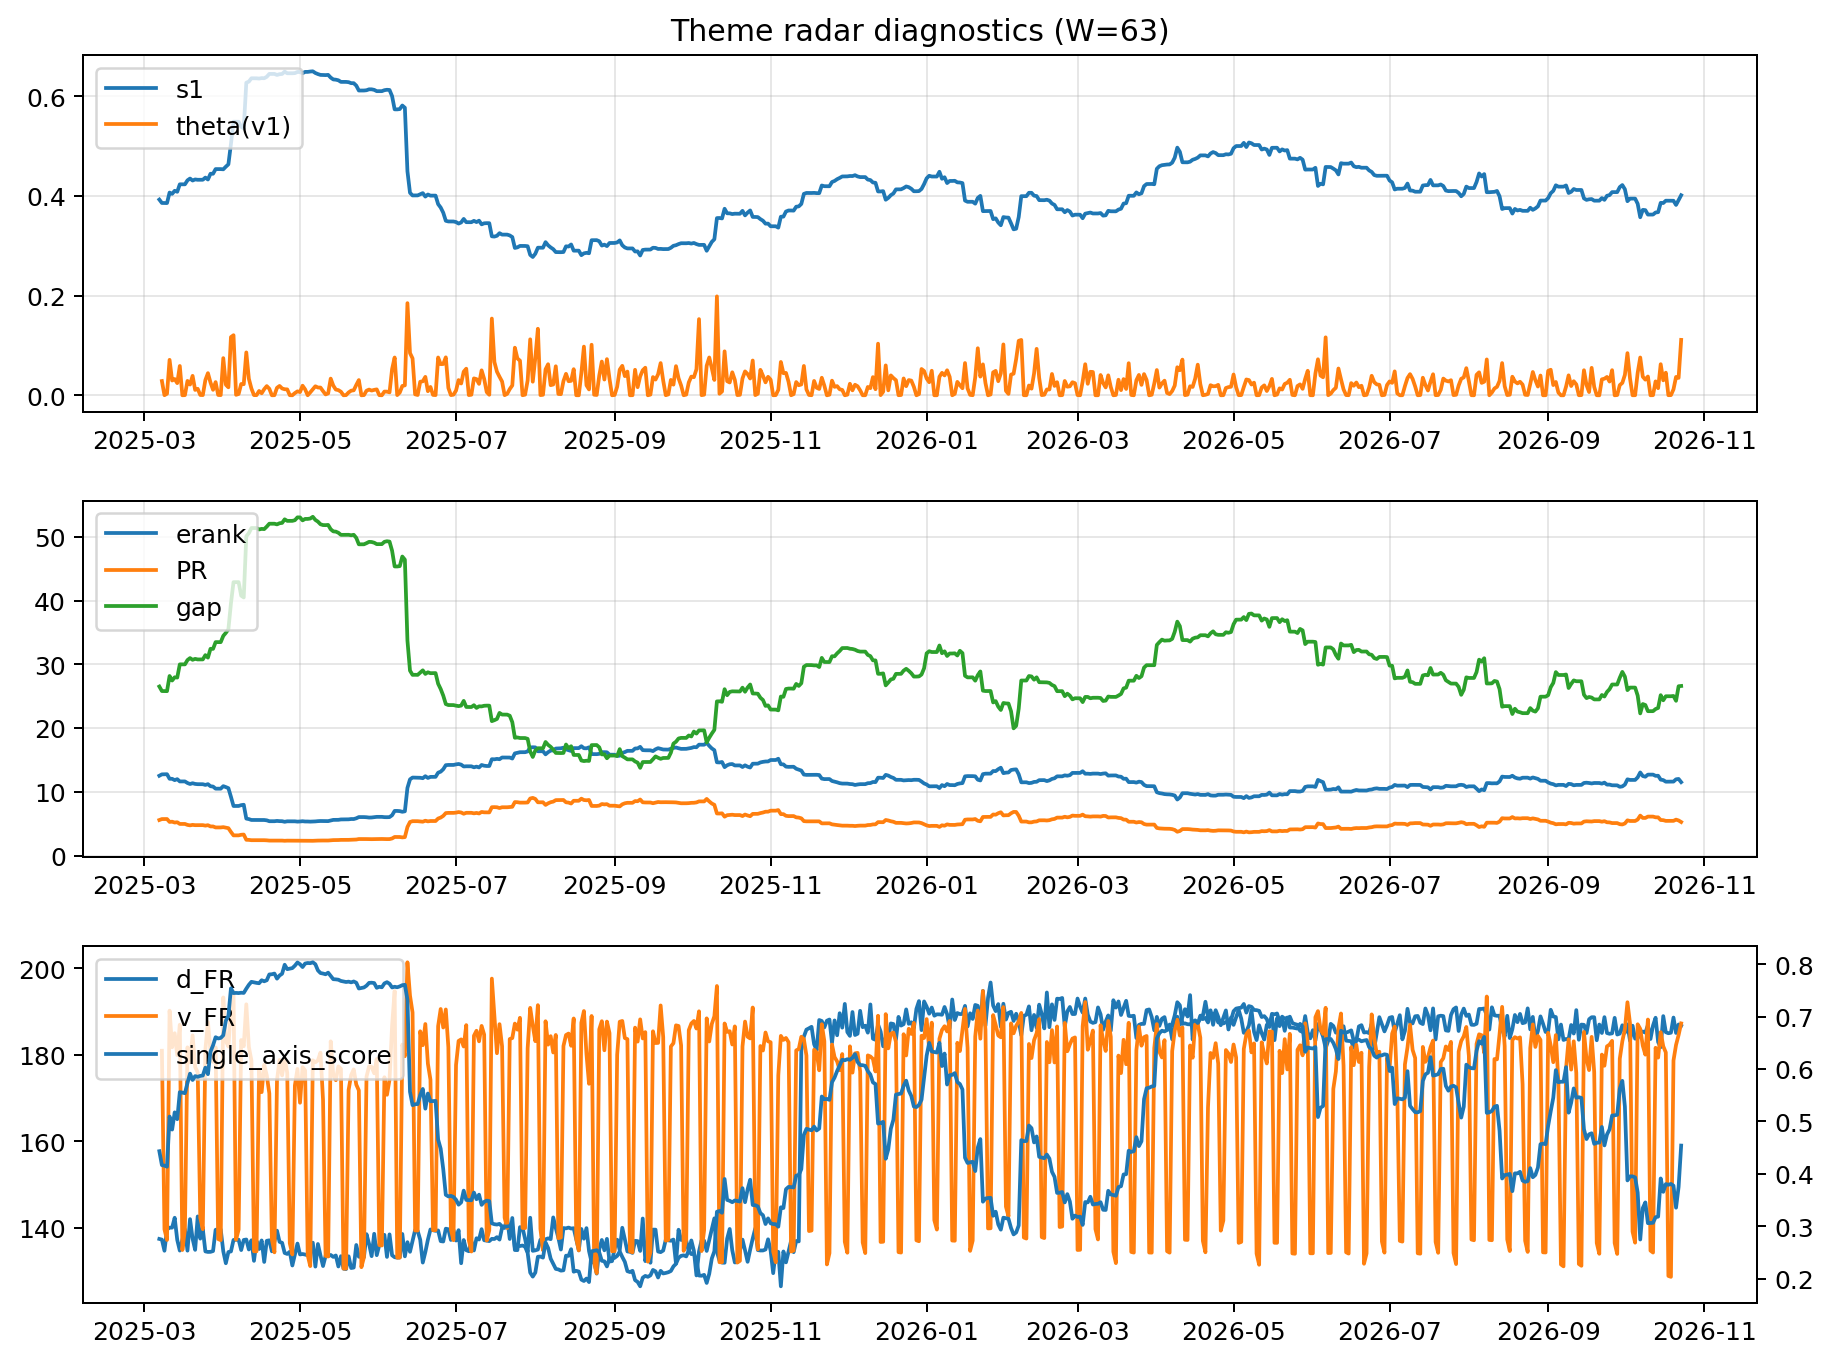
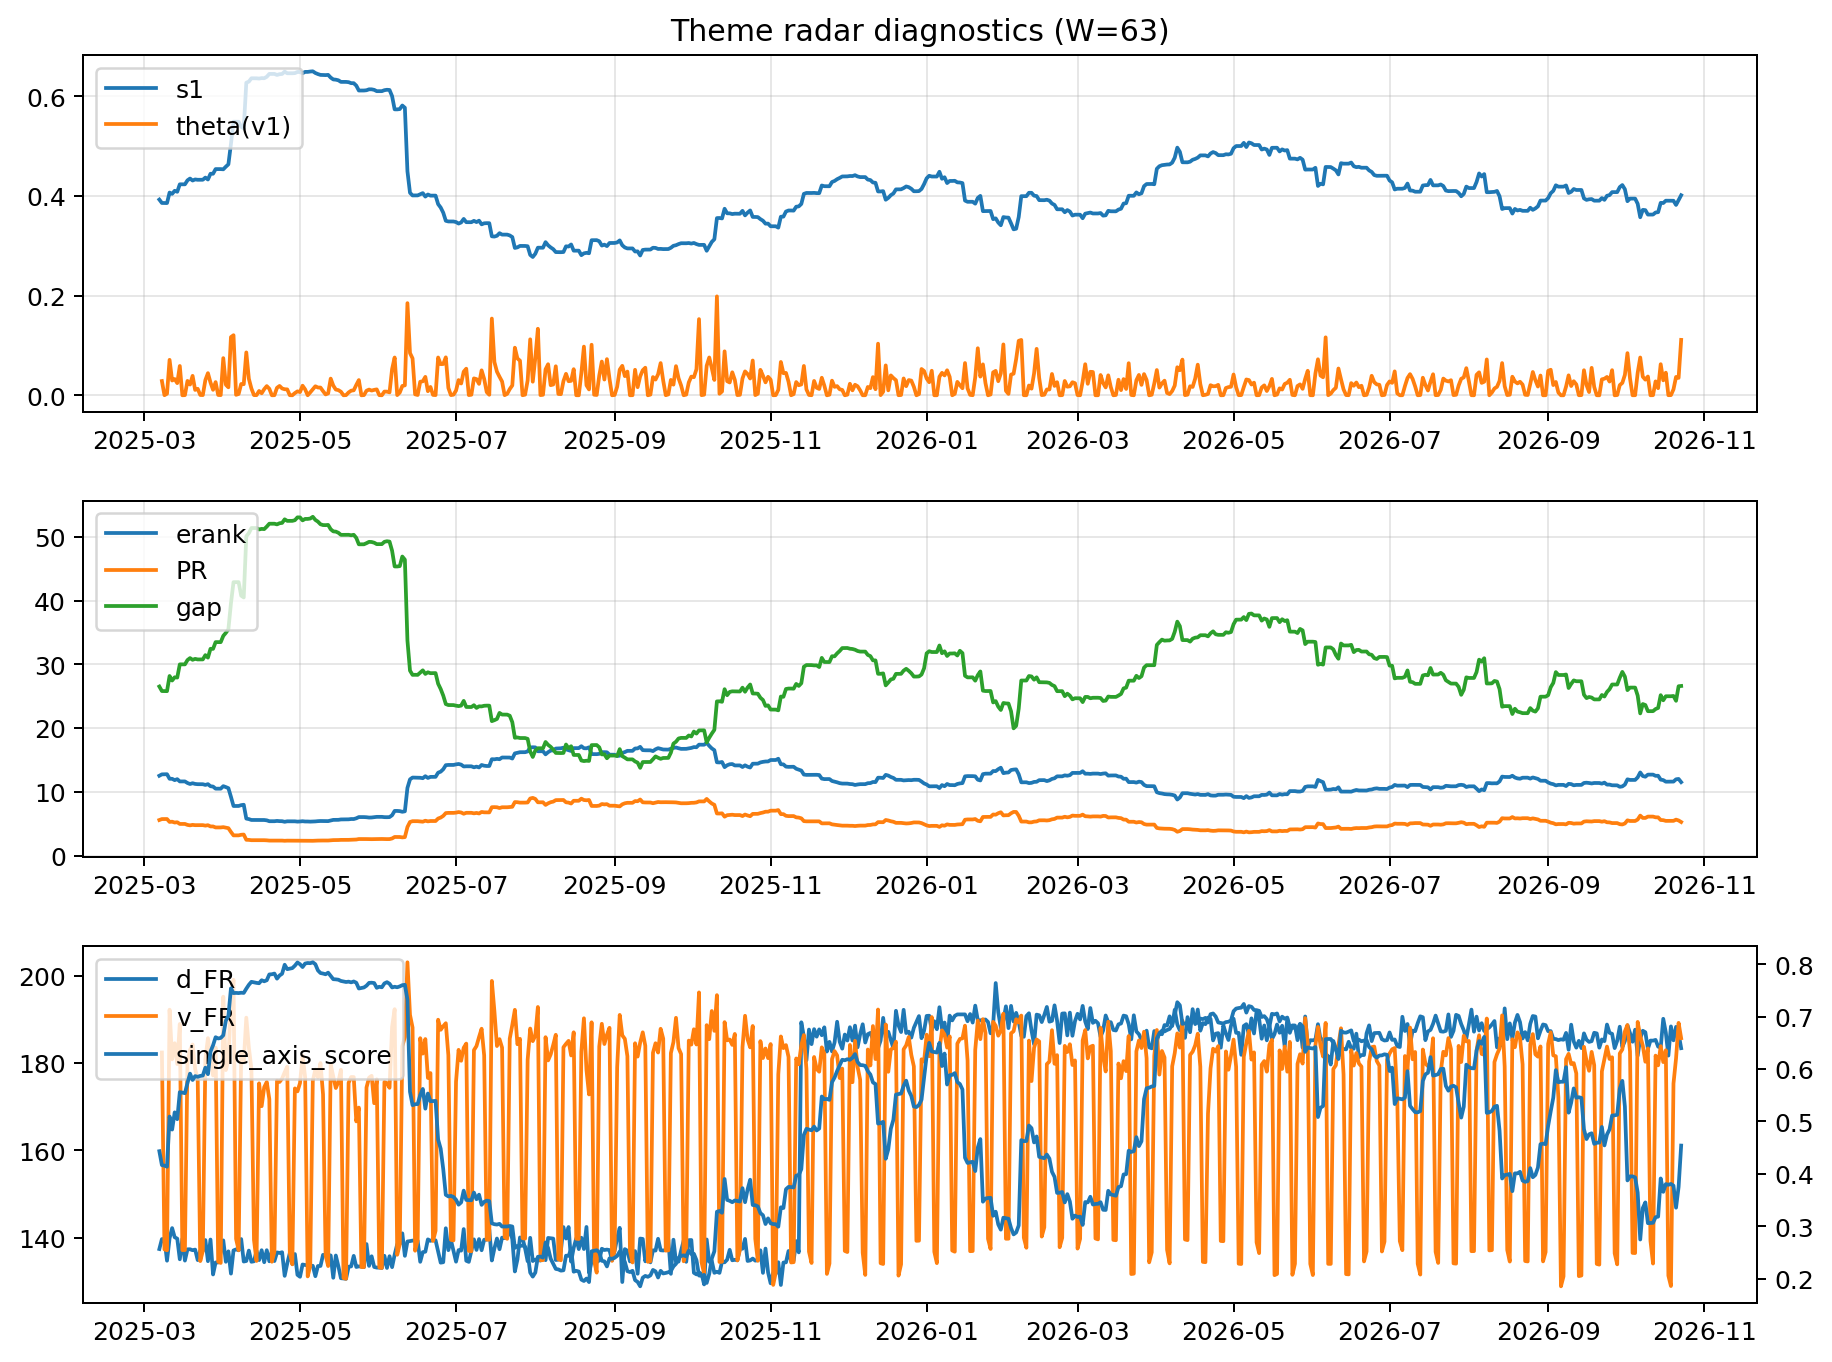
log: 2026-10-23 | sha256:8e633238f3d1786a5bb702ed7718cf833c55797a5895e6de0e036f7be00b7530

diff --git a/logs/2026-10-23.md b/logs/2026-10-23.md
@@ -3,43 +3,43 @@
 ![diagnostic W63](../assets/diagnostic/2026-10-23_W63.png)
 
 ## Leaders (v1) — W=63
-- **Nuclear_Uranium** (0.0770212462724892)
-- Semis (0.06757349354521)
-- Quantum (0.0571032899973184)
+- **Nuclear_Uranium** (0.0770212419555062)
+- Semis (0.0675734818069282)
+- Quantum (0.0571032856418244)
 
 ## Challengers — W=63
-**v2:** Rates (0.1332847773470051), Semis (0.097584645822123), Credit (0.0586902484378384)
-**v3:** Software_Cloud (0.1032620642902169), Cyber (0.0680028990618158), Crypto (0.0677959707512768)
+**v2:** Rates (0.133284688296581), Semis (0.0975847044763755), Credit (0.058690211981412)
+**v3:** Software_Cloud (0.1032620571858887), Cyber (0.0680029149416926), Crypto (0.0677959310780404)
 
 ## Migration (20D slope) — W=63
 **Top risers:**
-- axis_MegaCap_AI: 0.0007511529407673
-- axis_Crypto: 0.000584949245034
-- axis_Software_Cloud: 0.00045285601333
-- axis_Cyber: 0.0004064158814117
-- axis_Sector_ConsStap: 0.0003436207245024
-- axis_Metals: 0.0002762826278158
-- axis_Nuclear_Uranium: 0.0001290933968394
-- axis_Critical_Minerals: 0.0001137711589793
-- axis_Vol: 0.0001110495682984
-- axis_Semis: 0.0001037438356123
+- axis_MegaCap_AI: 0.0007511528261795
+- axis_Crypto: 0.0005849489720943
+- axis_Software_Cloud: 0.0004528557833058
+- axis_Cyber: 0.0004064156499411
+- axis_Sector_ConsStap: 0.0003436205687244
+- axis_Metals: 0.0002762826518354
+- axis_Nuclear_Uranium: 0.0001290933093371
+- axis_Critical_Minerals: 0.0001137710699632
+- axis_Vol: 0.0001110495493
+- axis_Semis: 0.0001037436529452
 
 **Top fallers:**
-- axis_Sector_RealEstate: -0.0001150435424392
-- axis_Equity_US: -0.0001206540715305
-- axis_Equity_ExUS: -0.0001449970288063
-- axis_Defense: -0.0001624836275254
-- axis_Sector_Materials: -0.0001654030909444
-- axis_Sector_Utilities: -0.0002040448379837
-- axis_Commodities: -0.0002065129455964
-- axis_Genomics_Bio: -0.000219482386206
-- axis_Credit: -0.0003556528556774
-- axis_Rates: -0.0012497244887101
+- axis_Sector_RealEstate: -0.0001150434444418
+- axis_Equity_US: -0.0001206540103462
+- axis_Equity_ExUS: -0.0001449969839162
+- axis_Defense: -0.0001624834472793
+- axis_Sector_Materials: -0.0001654029988564
+- axis_Sector_Utilities: -0.0002040446794661
+- axis_Commodities: -0.0002065128572772
+- axis_Genomics_Bio: -0.0002194822684025
+- axis_Credit: -0.0003556523785315
+- axis_Rates: -0.0012497247098489
 
 ## Risk line (W=63)
-- s1: 0.4013216962541217
-- theta_v1: 0.1111558405972463
-- v_FR: 187.2503946965723
+- s1: 0.4013217234200991
+- theta_v1: 0.1111558266131527
+- v_FR: 185.6815320259217
 - single_axis_score: 0.4540268456375839
 
 ## Interpretation
@@ -48,7 +48,7 @@
 - Action: Tomorrow watchlist: MegaCap_AI, Crypto, Software_Cloud, Cyber, Sector_ConsStap + v2_top1=Rates
 - Action: Hedge note: normal correlation stability.
 
-- Percentiles (W=63 history): vfr_pct=0.89, theta_pct=0.98, s1_pct=0.46, score_pct=0.41.
+- Percentiles (W=63 history): vfr_pct=0.83, theta_pct=0.98, s1_pct=0.46, score_pct=0.41.
 
 ---
[2 lines of base64/hex data omitted]
